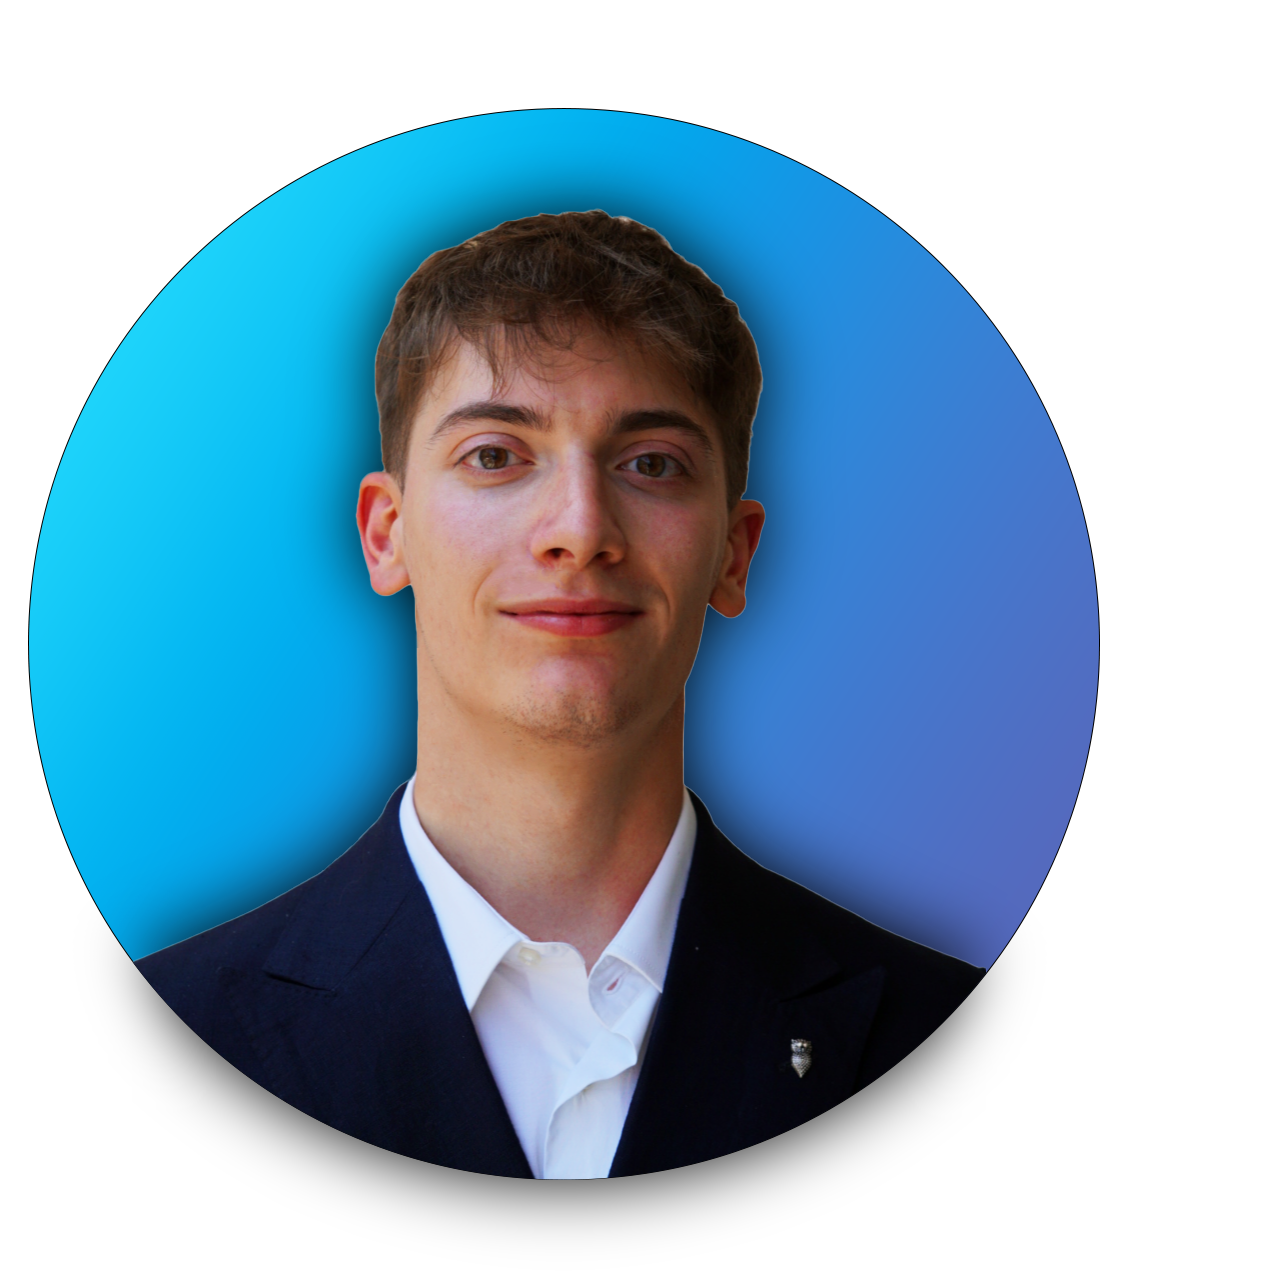
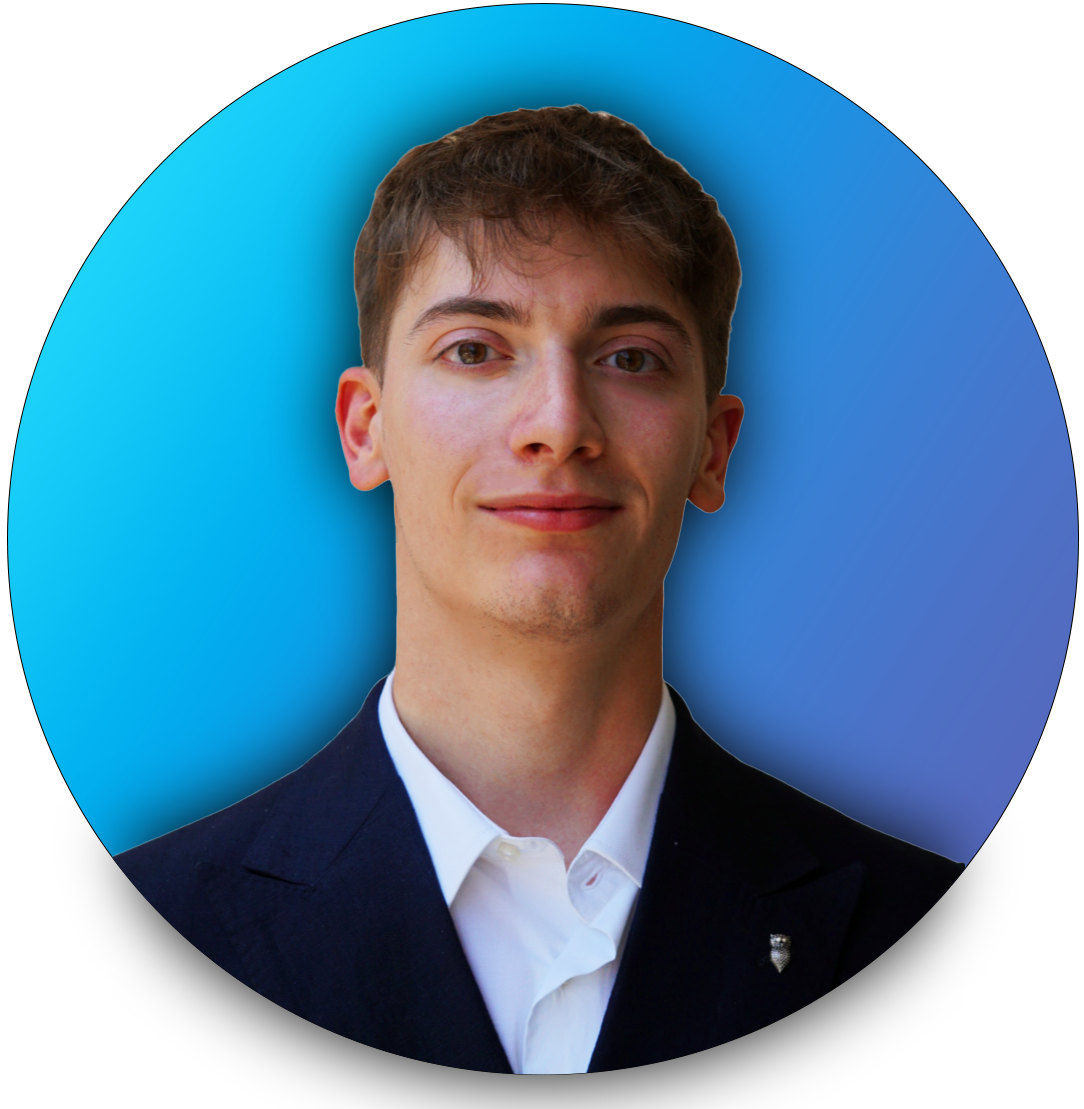
modified some prob

diff --git a/src/components/About/AboutCard.js b/src/components/About/AboutCard.js
@@ -15,9 +15,9 @@ function AboutCard() {
             Hi Everyone, I am <span className="purple">Andrea Gravili </span>
             from <span className="purple"> Brescia, Italy.</span>
             <br />
-            On 07/2024 I have pursued the bachelor's degree in <span className="purple">Computer science</span> at University of Trento.
+            In July 2024 I have pursued the bachelor's degree in <span className="purple">Computer science</span> at University of Trento.
             <br />
-            I started my IT path when I attended high school in computer science and I went on the same road since that.
+            I started my IT path when I attended high school in computer science and I went on the same road since then.
             <br />
             <br />
             Those my hobbies, just to take a break from all this informatic stuff:

diff --git a/src/components/Home/Home.js b/src/components/Home/Home.js
@@ -32,7 +32,7 @@ function Home() {
               </div>
             </Col>
 
-            <Col md={5} style={{ paddingBottom: 20 }}>
+            <Col md={5} style={{ paddingBottom: 20 }} className="img">
               <img
                 src={homeLogo}
                 alt="home pic"

diff --git a/src/style.css b/src/style.css
@@ -259,6 +259,10 @@ button:focus {
   padding-top: 80px !important;
 }
 
+.img{
+  text-align: center;
+}
+
 .home-section {
   position: relative;
   z-index: -1;
